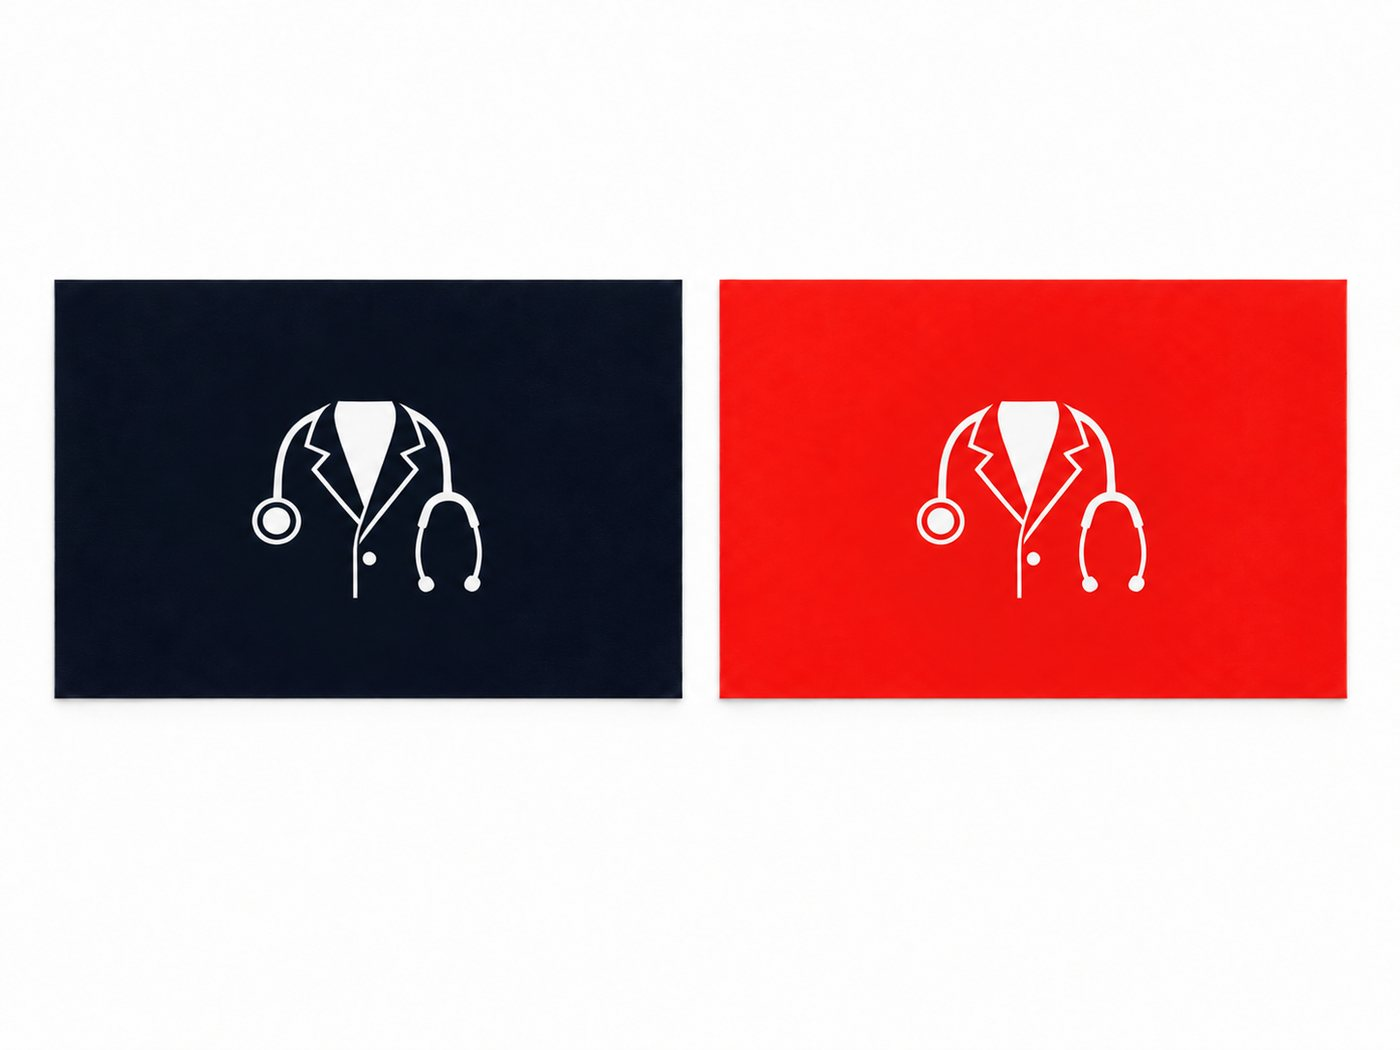
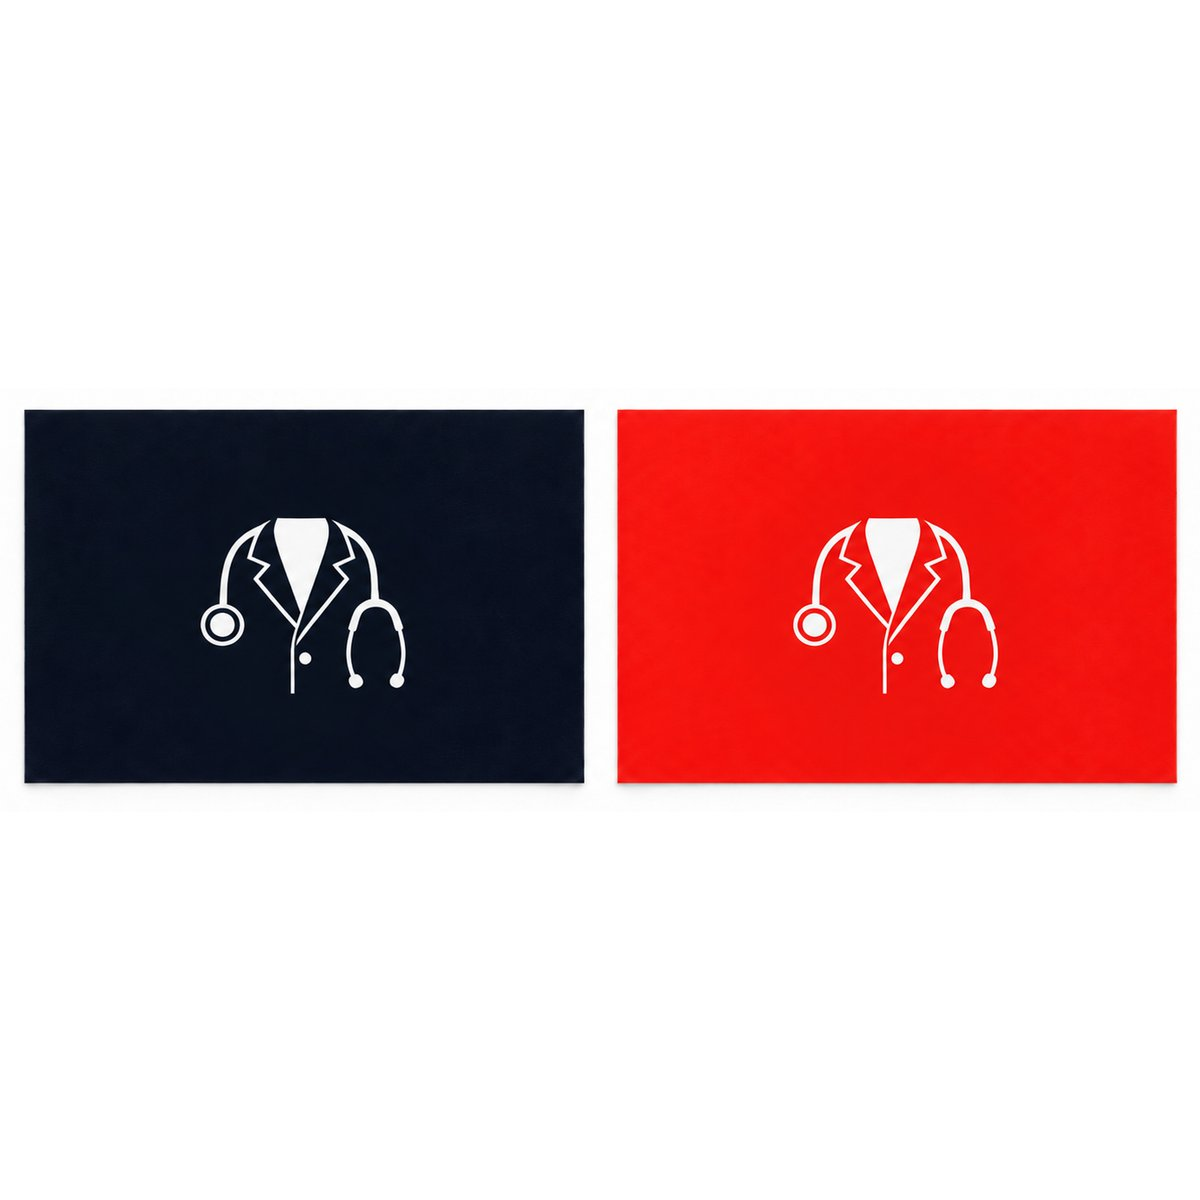
Hero, navigatie en ansichtkaarten-foto aanpassen
- Hero: rompertje i.p.v. logokaart naast de sfeerfoto
- Categorie "Sieraden en accessoires" verwijderd uit nav en filters
  (geen producten meer in die categorie)
- Ansichtkaarten-productfoto opnieuw gecropt: strak en symmetrisch
  op een vierkant canvas zodat de kaarten gecentreerd staan i.p.v.
  scheef weggedrukt door object-fit: cover

Changed region(s): [[0.0, 0.2438, 0.9867, 0.6705]]

diff --git a/winkel.html b/winkel.html
@@ -27,7 +27,6 @@
     <nav class="main-nav">
       <a href="index.html">Home</a>
       <a href="winkel.html?cat=Keuken">Keuken</a>
-      <a href="winkel.html?cat=Sieraden en accessoires">Sieraden en accessoires</a>
       <a href="winkel.html?cat=Kind">Kind</a>
       <a href="winkel.html?cat=Office">Office</a>
       <a href="winkel.html?cat=Sport">Sport</a>
@@ -55,7 +54,7 @@
 <script src="products.js"></script>
 <script src="script.js"></script>
 <script>
-  const CATEGORIES = ["Keuken", "Sieraden en accessoires", "Kind", "Office", "Sport", "Exclusief"];
+  const CATEGORIES = ["Keuken", "Kind", "Office", "Sport", "Exclusief"];
   const params = new URLSearchParams(window.location.search);
   let activeCat = params.get("cat") || "Alles";
   let searchQuery = (params.get("search") || "").trim();

diff --git a/index.html b/index.html
@@ -27,7 +27,6 @@
     <nav class="main-nav">
       <a href="index.html">Home</a>
       <a href="winkel.html?cat=Keuken">Keuken</a>
-      <a href="winkel.html?cat=Sieraden en accessoires">Sieraden en accessoires</a>
       <a href="winkel.html?cat=Kind">Kind</a>
       <a href="winkel.html?cat=Office">Office</a>
       <a href="winkel.html?cat=Sport">Sport</a>
@@ -43,7 +42,7 @@
 </header>
 
 <section class="hero">
-  <img src="images/hero-navy.png" alt="Dr. Gift Shop logo">
+  <img src="images/romper.jpg" alt="Baby in Dr. Gift Shop romper">
   <img src="images/hero-sport.jpg" alt="Team draagt Dr. Gift Shop sportshirts">
 </section>
 

diff --git a/bevestiging.html b/bevestiging.html
@@ -27,7 +27,6 @@
     <nav class="main-nav">
       <a href="index.html">Home</a>
       <a href="winkel.html?cat=Keuken">Keuken</a>
-      <a href="winkel.html?cat=Sieraden en accessoires">Sieraden en accessoires</a>
       <a href="winkel.html?cat=Kind">Kind</a>
       <a href="winkel.html?cat=Office">Office</a>
       <a href="winkel.html?cat=Sport">Sport</a>

diff --git a/cart.html b/cart.html
@@ -27,7 +27,6 @@
     <nav class="main-nav">
       <a href="index.html">Home</a>
       <a href="winkel.html?cat=Keuken">Keuken</a>
-      <a href="winkel.html?cat=Sieraden en accessoires">Sieraden en accessoires</a>
       <a href="winkel.html?cat=Kind">Kind</a>
       <a href="winkel.html?cat=Office">Office</a>
       <a href="winkel.html?cat=Sport">Sport</a>

diff --git a/contact.html b/contact.html
@@ -27,7 +27,6 @@
     <nav class="main-nav">
       <a href="index.html">Home</a>
       <a href="winkel.html?cat=Keuken">Keuken</a>
-      <a href="winkel.html?cat=Sieraden en accessoires">Sieraden en accessoires</a>
       <a href="winkel.html?cat=Kind">Kind</a>
       <a href="winkel.html?cat=Office">Office</a>
       <a href="winkel.html?cat=Sport">Sport</a>

diff --git a/product.html b/product.html
@@ -27,7 +27,6 @@
     <nav class="main-nav">
       <a href="index.html">Home</a>
       <a href="winkel.html?cat=Keuken">Keuken</a>
-      <a href="winkel.html?cat=Sieraden en accessoires">Sieraden en accessoires</a>
       <a href="winkel.html?cat=Kind">Kind</a>
       <a href="winkel.html?cat=Office">Office</a>
       <a href="winkel.html?cat=Sport">Sport</a>
